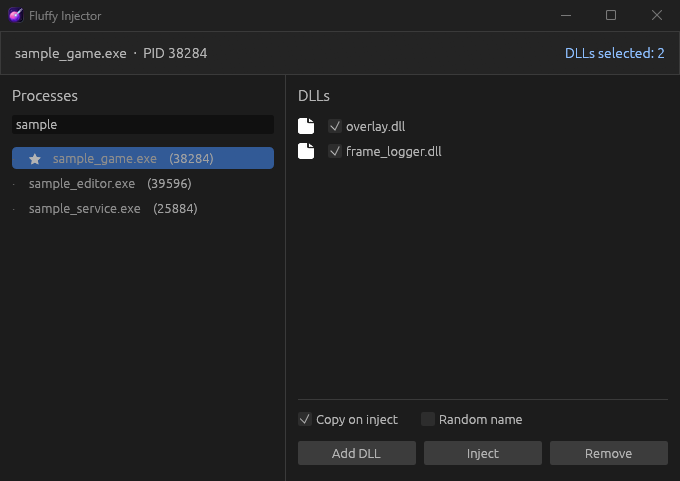
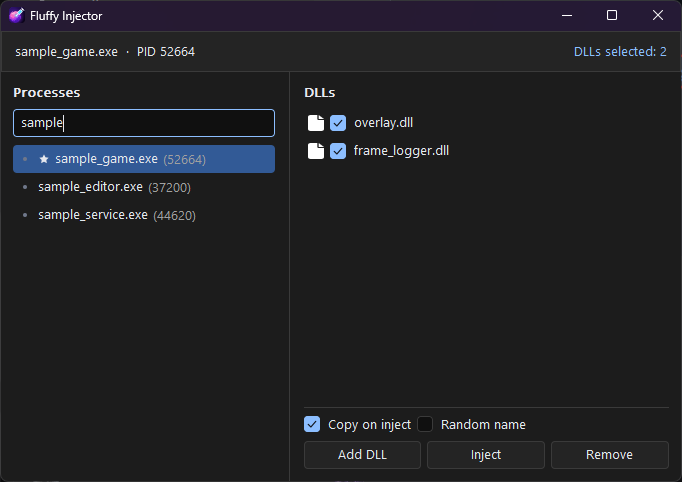
docs: update readme, guides and screenshot for 0.5.0

diff --git a/README.md b/README.md
@@ -29,13 +29,15 @@
 
 **Rebuild while your DLL is loaded.** Windows locks a loaded DLL, so your next build fails. Turn on **Copy on inject** and the target loads a temporary copy. Your original file stays free for the compiler.
 
-**Restart your target without starting over.** The process list refreshes about twice per second. When your program closes and opens again, Fluffy Injector selects the new process by name.
+**Restart your target without starting over.** The process list refreshes about twice per second. When your program closes and opens again, Fluffy Injector selects the new process by name. If several processes share that name, it asks you to choose.
 
-**Set it up once.** Your DLL list, checked items, favorites, last target, and window layout are saved. Favorites stay at the top. Processes you block stay out of the list.
+**Drop in your DLLs.** Drag files from Explorer into the DLL list. Press `Ctrl+O` to add a DLL or `Ctrl+F` to filter processes.
+
+**Set it up once.** Your DLL list, checked items, favorites, last target, and window layout are saved. Updating from 0.4 or earlier imports your old settings. Favorites stay at the top. Processes you block stay out of the list.
 
 **Know what happened.** Fluffy Injector waits for Windows to finish loading each DLL, then reports success or the error. A DLL that is already loaded is left alone.
 
-**Click or script.** One executable is both the desktop app and the command-line tool.
+**Click or script.** One executable under 2 MB is both the desktop app and the command-line tool. No console window opens with the app, and opening it twice shows the window you already have.
 
 ## Where it fits
 
@@ -49,7 +51,7 @@
    - `FluffyInjector-<version>-setup.exe` installs the app and adds the command to your PATH.
    - `fluffy_injector.exe` runs without installing.
 2. Select a process on the left.
-3. Select **Add DLL** and check the files you want.
+3. Drag your DLLs into the list, or select **Add DLL**. Check the files you want.
 4. Select **Inject**.
 
 Right-click a process to favorite or block it. To unblock one, right-click empty space in the process list and open **Blocked**. Right-click a DLL to inject it alone, open its folder, or remove it.
@@ -60,16 +62,16 @@ The setup program requires 64-bit Windows 10 or later. Fluffy Injector loads 64-
 
 ```powershell
 # Inject one DLL by process name
-fluffy_injector notepad.exe C:\hooks.dll
+fluffy_injector notepad.exe C:\hooks.dll | Out-Host
 
 # Keep the original file free for the next build
-fluffy_injector --copy notepad.exe C:\hooks.dll
+fluffy_injector --copy notepad.exe C:\hooks.dll | Out-Host
 
 # Inject several DLLs by process ID
-fluffy_injector 1234 C:\hooks.dll C:\overlay.dll
+fluffy_injector 1234 C:\hooks.dll C:\overlay.dll | Out-Host
 ```
 
-Exit code `0` means every DLL is loaded. See the [command-line guide](docs/cli.md) for all options and exit codes.
+`| Out-Host` makes PowerShell wait for the result. Exit code `0` means every DLL is loaded. See the [command-line guide](docs/cli.md) for all options and exit codes.
 
 ## Contribute
 

diff --git a/docs/cli.md b/docs/cli.md
@@ -4,9 +4,28 @@
 fluffy_injector [options] <pid|process> <dll>...
 ```
 
-With no arguments, `fluffy_injector.exe` opens the taut desktop app. It is a Windows GUI-subsystem executable and never creates a console window. With arguments, it runs the CLI, tries to attach to the calling terminal for output, and returns an exit code.
+With no arguments, `fluffy_injector.exe` opens the desktop app. If the app is already open, its window comes to the front. With arguments, it runs in the calling terminal, prints its output there, and returns an exit code. It never creates a console window.
 
 The command works from a new terminal after an install that adds it to PATH. Otherwise, use the full path to `fluffy_injector.exe`.
+
+## Wait for the result
+
+Fluffy Injector is a Windows GUI program. PowerShell and an interactive Command Prompt do not wait for GUI programs, so output can appear after the prompt and the exit code is not set.
+
+In PowerShell, pipe the output. PowerShell then waits and sets `$LASTEXITCODE`:
+
+```powershell
+fluffy_injector --copy notepad.exe C:\hooks.dll | Out-Host
+if ($LASTEXITCODE -ne 0) { exit $LASTEXITCODE }
+```
+
+At an interactive Command Prompt, use `start /wait`:
+
+```bat
+start "" /wait /b fluffy_injector --copy notepad.exe C:\hooks.dll
+```
+
+Batch files (`.cmd` and `.bat`) wait without any change and set `%ERRORLEVEL%`.
 
 ## Arguments
 
@@ -22,9 +41,11 @@ Options can come before or after the process.
 | `-n`, `--name`, `-p`, `--pid` | Optional labels before the process name or PID. |
 | `-h`, `--help` | Print usage and exit. Use it as the first argument. |
 
-```powershell
-fluffy_injector --copy notepad.exe C:\hooks.dll
-```
+## Temporary copies
+
+`--copy` and `--random` place the copy in `%TEMP%luffy-injector`. After injection, Fluffy Injector tries to delete it. Windows does not allow this while the target has the copy loaded, so a successful injection normally also prints `warning: Could not remove temp DLL`. The warning does not change the exit code. You can delete the copy after the target closes.
+
+If the load does not finish within 30 seconds, the command fails and keeps the copy, because the target can still be loading it.
 
 ## Exit codes
 

diff --git a/docs/building.md b/docs/building.md
@@ -13,6 +13,12 @@ cargo +nightly build --release
 
 The executable is `target\release\fluffy_injector.exe`.
 
+Run the tests with:
+
+```powershell
+cargo +nightly test
+```
+
 ## Install with the script
 
 From a source checkout, build and install in one step:
@@ -26,6 +32,12 @@ Leave out `-Build` to install a binary you already built. The script installs to
 To uninstall, use **Apps & features** or run the script with `-Uninstall`.
 
 The portable `release-build` package from [GitHub Actions](https://github.com/fluffysnaff/fluffy-injector/actions/workflows/rust.yml) contains the same script next to the executable.
+
+## Settings
+
+The desktop app saves its settings in `%APPDATA%luffy-injector\config.ron`. If that file does not exist, the app imports the settings from version 0.4 or earlier, `%APPDATA%\Fluffy Injector\datapp.ron`, and leaves the old file unchanged.
+
+If `config.ron` cannot be read as valid settings, the app starts with defaults and does not save during that session. It leaves the file in place and copies it to `config.ron.bak`, unless a backup already exists. To start fresh, close the app and delete `config.ron`. If the old `app.ron` still exists, the app imports it again.
 
 ## Releases
 
